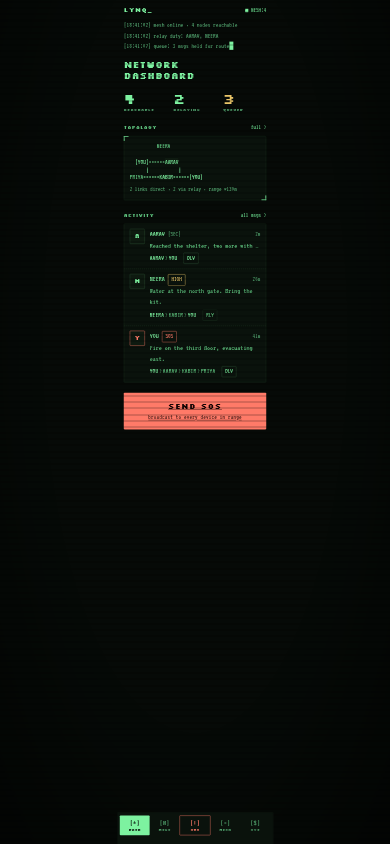
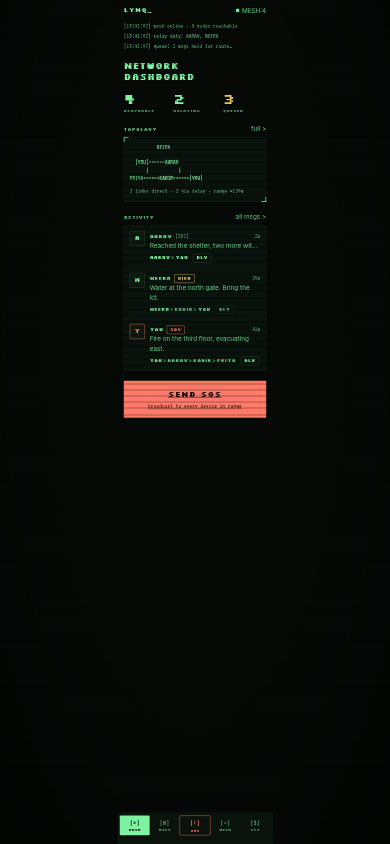
feat(design): two-tier type system for readability
- Pixel (Silkscreen) stays as the identity tier: titles, buttons, tags,
  readouts, routes, and names -- headings stay bold pixel per team call
- Sans (system) becomes the reading tier: message bodies, notes,
  previews, descriptions
- VT323 demoted to flavor only: boot log, ASCII topology, timestamps,
  hop counts, node IDs
- All screens + states re-validated; contrast and layout checks pass

diff --git a/docs/design/mockups/tokens.css b/docs/design/mockups/tokens.css
@@ -35,6 +35,7 @@
 
   --pix: "Silkscreen", monospace;
   --term: "VT323", monospace;
+  --sans: "Inter", "Segoe UI", "Roboto", "Helvetica Neue", system-ui, sans-serif;
 
   --r: 2px;                 /* ONE radius: near-sharp, terminal-true */
   --gutter: 16px;
@@ -45,15 +46,15 @@
 body {
   background: var(--bg);
   color: var(--ph);
-  font-family: var(--term);
-  font-size: 19px;           /* VT323 runs small; 19px ~= 14px visual */
-  line-height: 1.45;
+  font-family: var(--sans);
+  font-size: 16px;
+  line-height: 1.5;
   width: 390px;
   min-height: 844px;
   margin: 0 auto;
   position: relative;
   padding-bottom: 110px;
-  -webkit-font-smoothing: none;   /* keep pixel edges crisp */
+  -webkit-font-smoothing: antialiased;
 }
 
 /* CRT scanlines — fixed overlay, pointer-events none */
@@ -83,7 +84,14 @@ body::before {
 ::selection { background: var(--ph); color: var(--bg); }
 
 /* ---------- type roles ---------- */
+/* TWO-TIER SYSTEM:
+   - silkscreen (pixel) = identity: titles, buttons, tags, readouts, nav
+   - sans = reading: message bodies, notes, descriptions, previews
+   - vt323 (terminal) = flavor only: boot log, ascii topology, cursors */
+
 .pix { font-family: var(--pix); font-weight: 700; }
+.term { font-family: var(--term); }
+
 .h-screen {            /* screen title: pixel, medium */
   font-family: var(--pix);
   font-size: 22px;
@@ -99,10 +107,17 @@ body::before {
   text-transform: uppercase;
   color: var(--ph-dim);
 }
-.term-s { font-size: 19px; }   /* body */
-.term-xs { font-size: 16px; color: var(--ph-faint); } /* meta, timestamps */
+.body-s { font-size: 16px; }   /* readable body — sans */
+.body-xs { font-size: 14px; color: var(--ph-faint); } /* readable meta — sans */
+.term-s { font-family: var(--term); font-size: 20px; }   /* flavor: log lines */
+.term-xs { font-family: var(--term); font-size: 17px; color: var(--ph-faint); } /* flavor: node ids, ascii meta */
 .dim { color: var(--ph-dim); }
 .faint { color: var(--ph-faint); }
+.who {                  /* names/labels: pixel, scannable */
+  font-family: var(--pix);
+  font-size: 12px;
+  letter-spacing: 0.5px;
+}
 
 /* blinking cursor block — the terminal is ALIVE */
 .cursor::after {
@@ -171,8 +186,10 @@ body::before {
   gap: 6px;
   border: 1px solid var(--line);
   color: var(--ph-dim);
-  padding: 1px 8px 2px;
-  font-size: 16px;
+  padding: 2px 8px 3px;
+  font-family: var(--pix);
+  font-size: 10px;
+  letter-spacing: 0.5px;
   border-radius: var(--r);
   white-space: nowrap;
 }
@@ -180,8 +197,13 @@ body::before {
 .tag.warn { border-color: var(--amber); color: var(--amber); }
 .tag.crit { border-color: var(--sos); color: var(--sos); }
 
-/* ---------- route trace ---------- */
-.route { font-size: 17px; color: var(--ph-dim); letter-spacing: 0.5px; }
+/* ---------- route trace: readable mono identity, pixel font ---------- */
+.route {
+  font-family: var(--pix);
+  font-size: 11px;
+  letter-spacing: 0.5px;
+  color: var(--ph-dim);
+}
 .route .arrow { color: var(--ph-faint); padding: 0 2px; }
 .route b { color: var(--ph); font-weight: 400; }
 
@@ -283,9 +305,9 @@ body::before {
   border: 1px solid var(--line);
   border-radius: var(--r);
   color: var(--ph);
-  font-family: var(--term);
-  font-size: 19px;
-  padding: 10px 12px;
+  font-family: var(--sans);
+  font-size: 16px;
+  padding: 12px 14px;
   width: 100%;
 }
 .field::placeholder { color: var(--ph-faint); }
@@ -326,7 +348,7 @@ body::before {
 .cmdbar .cmd.sos.active { background: var(--sos); color: #140504; }
 
 /* ---------- ASCII mesh graph ---------- */
-.mesh-stage { line-height: 1.15; font-size: 17px; white-space: pre; overflow: hidden; }
+.mesh-stage { font-family: var(--term); line-height: 1.15; font-size: 17px; white-space: pre; overflow: hidden; }
 .mesh-stage .n-you { color: var(--ph); }
 .mesh-stage .n-relay { color: var(--ph); background: var(--panel-hi); }
 .mesh-stage .n-link { color: var(--ph-faint); }
@@ -338,5 +360,5 @@ body::before {
 .meter b { color: var(--ph); font-weight: 400; }
 
 /* ---------- boot log ---------- */
-.log { font-size: 17px; line-height: 1.5; }
+.log { font-family: var(--term); font-size: 17px; line-height: 1.5; }
 .log .t { color: var(--ph-faint); }

diff --git a/docs/design/mockups/messages.html b/docs/design/mockups/messages.html
@@ -40,11 +40,12 @@
     border: 1px solid var(--line);
     background: var(--panel);
     border-radius: var(--r);
-    padding: 8px 12px 6px;
-    font-size: 19px;
+    padding: 10px 14px 8px;
+    font-size: 16px;
+    line-height: 1.45;
   }
   .msg.mine .bub { border-color: var(--line-hi); background: var(--panel-hi); }
-  .bub .stamp { font-size: 15px; color: var(--ph-faint); margin-top: 2px; }
+  .bub .stamp { font-family: var(--term); font-size: 15px; color: var(--ph-faint); margin-top: 4px; }
   .msg .stamps { margin-top: 3px; }
 
   .composer {
@@ -53,8 +54,10 @@
     border: 1px solid var(--line);
     background: var(--panel);
     border-radius: var(--r);
-    padding: 12px 14px;
+    padding: 14px 16px;
     color: var(--ph-faint);
+    font-family: var(--term);
+    font-size: 17px;
   }
   .composer .send {
     font-family: var(--pix); font-size: 11px; letter-spacing: 1px;
@@ -78,7 +81,7 @@
           <div class="avatar">A</div>
           <div style="flex:1;min-width:0">
             <div class="top">
-              <span>AARAV</span>
+              <span class="who">AARAV</span>
               <span class="unread">2</span>
               <span class="term-xs time">2m</span>
             </div>
@@ -93,7 +96,7 @@
           <div class="avatar">M</div>
           <div style="flex:1;min-width:0">
             <div class="top">
-              <span>MEERA</span>
+              <span class="who">MEERA</span>
               <span class="tag warn">HIGH</span>
               <span class="term-xs time">26m</span>
             </div>
@@ -108,7 +111,7 @@
           <div class="avatar">P</div>
           <div style="flex:1;min-width:0">
             <div class="top">
-              <span>PRIYA</span>
+              <span class="who">PRIYA</span>
               <span class="term-xs time">74m</span>
             </div>
             <div class="preview">Can you hear us? Nobody has signal here.</div>
@@ -120,7 +123,7 @@
         </a>
       </div>
 
-      <div class="sec term-xs">
+      <div class="sec body-xs">
         Messages hop device to device. Each shows the route it took.
       </div>
     </main>
@@ -140,7 +143,7 @@
       <a class="back" href="messages.html">&lt;</a>
       <div class="avatar" style="width:32px;height:32px;font-size:12px">A</div>
       <div>
-        <div>AARAV</div>
+        <div class="who">AARAV</div>
         <div class="term-xs">2b7f9c41 · 1 hop · link ok</div>
       </div>
       <span class="tag ok" style="margin-left:auto">vDLV</span>

diff --git a/docs/design/mockups/emergency.html b/docs/design/mockups/emergency.html
@@ -63,7 +63,7 @@
         <div class="panel" style="display:flex;align-items:center;gap:12px">
           <div style="flex:1">
             <div>Attach location</div>
-            <div class="term-xs">works without it · 12.9716,77.5946</div>
+            <div class="body-xs">works without it · 12.9716,77.5946</div>
           </div>
           <div class="tgl on"></div>
         </div>
@@ -85,7 +85,7 @@
           <span class="tag">RLY</span>
         </div>
         <div class="panel brk" style="border-color:var(--sos)">
-          <div style="color:var(--sos)">MEDICAL - asthma, no inhaler</div>
+          <div style="color:var(--sos);font-size:16px">MEDICAL - asthma, no inhaler</div>
           <div class="term-xs" style="margin-top:4px">sent 18:42 · loc attached · ttl 6</div>
           <div class="hops">
             <div class="hop done">
@@ -122,7 +122,7 @@
           <div class="avatar crit">K</div>
           <div style="flex:1;min-width:0">
             <div style="display:flex;gap:8px;align-items:baseline">
-              <span style="color:var(--sos)">KABIR</span>
+              <span class="who" style="color:var(--sos)">KABIR</span>
               <span class="tag crit">SOS</span>
               <span class="term-xs" style="margin-left:auto">9m</span>
             </div>
@@ -136,7 +136,7 @@
           <div class="avatar crit">P</div>
           <div style="flex:1;min-width:0">
             <div style="display:flex;gap:8px;align-items:baseline">
-              <span style="color:var(--sos)">PRIYA</span>
+              <span class="who" style="color:var(--sos)">PRIYA</span>
               <span class="tag crit">SOS</span>
               <span class="term-xs" style="margin-left:auto">52m</span>
             </div>

diff --git a/docs/design/mockups/dashboard.html b/docs/design/mockups/dashboard.html
@@ -64,7 +64,7 @@
           <div class="avatar">A</div>
           <div style="flex:1;min-width:0">
             <div style="display:flex;gap:8px;align-items:baseline">
-              <span>AARAV</span>
+              <span class="who">AARAV</span>
               <span class="term-xs">[SEC]</span>
               <span class="term-xs" style="margin-left:auto">2m</span>
             </div>
@@ -79,7 +79,7 @@
           <div class="avatar">M</div>
           <div style="flex:1;min-width:0">
             <div style="display:flex;gap:8px;align-items:baseline">
-              <span>MEERA</span>
+              <span class="who">MEERA</span>
               <span class="tag warn">HIGH</span>
               <span class="term-xs" style="margin-left:auto">26m</span>
             </div>
@@ -94,7 +94,7 @@
           <div class="avatar crit">Y</div>
           <div style="flex:1;min-width:0">
             <div style="display:flex;gap:8px;align-items:baseline">
-              <span>YOU</span>
+              <span class="who">YOU</span>
               <span class="tag crit">SOS</span>
               <span class="term-xs" style="margin-left:auto">41m</span>
             </div>

diff --git a/docs/design/mockups/settings.html b/docs/design/mockups/settings.html
@@ -33,7 +33,7 @@
       <div class="sec-head"><span class="h-sec">Identity</span><span class="term-xs">node id</span></div>
       <div class="panel brk">
         <div class="readout" style="font-size:24px">SUNLESS</div>
-        <div class="term-xs" style="margin-top:4px">Pixel 8 · key verified</div>
+        <div class="body-xs" style="margin-top:4px">Pixel 8 · key verified</div>
         <div class="idbox">9f3c41d8 a7e5 4b02<br>c1aa 77e0 d3f9 21b4</div>
       </div>
       <div class="term-xs" style="margin-top:8px">
@@ -90,7 +90,7 @@
       </div>
     </div>
 
-    <div class="sec term-xs">
+    <div class="sec body-xs">
       LYNQ relays between nearby devices only. It cannot reach emergency services without a cellular or internet path.
     </div>
   </main>

diff --git a/docs/design/mockups/mesh.html b/docs/design/mockups/mesh.html
@@ -5,7 +5,7 @@
 <title>LYNQ // MESH</title>
 <link rel="stylesheet" href="tokens.css">
 <style>
-  .device .who { font-size: 19px; }
+  .device .who { font-size: 12px; }
   .device .idline { margin-top: 2px; }
   .device .role { margin-left: auto; }
   .legend { display: flex; gap: 14px; margin-top: 10px; }
@@ -21,7 +21,7 @@
 
   <main class="page">
     <h1 class="h-screen" style="margin-top:18px">Mesh Explorer</h1>
-    <div class="term-xs" style="margin-top:6px">topology from this device's view</div>
+    <div class="body-xs" style="margin-top:6px">topology from this device's view</div>
 
     <!-- ASCII topology -->
     <div class="sec">

diff --git a/docs/design/DESIGN.md b/docs/design/DESIGN.md
@@ -22,9 +22,16 @@ readability at arm's length.
 | amber | #E8C468 | warnings + HIGH priority only |
 | sos | #FF7A68 | SOS / critical only (~5.5:1) |
 
-Type: **Silkscreen** (pixel, OFL) for titles, section heads, readout
-numbers. **VT323** (terminal, OFL) for everything else — both bundled in
-`docs/design/mockups/fonts/`.
+Type — **two-tier system**:
+- **Silkscreen** (pixel, OFL) = identity tier: screen titles, section heads,
+  buttons, tags, readout numbers, route traces, and **names** (people are
+  headings, so they stay pixel)
+- **Sans** (system) = reading tier: message bodies, note input, previews,
+  descriptions, explainer copy — anything longer than a label
+- **VT323** (terminal, OFL) = flavor only: boot log, ASCII topology glyph art,
+  timestamps/hop counts/IDs (data, not prose)
+
+Fonts bundled in `docs/design/mockups/fonts/`.
 
 Shapes: ONE radius — 2px, near-sharp. Corner brackets `┌ ┐` motif on key
 panels.
